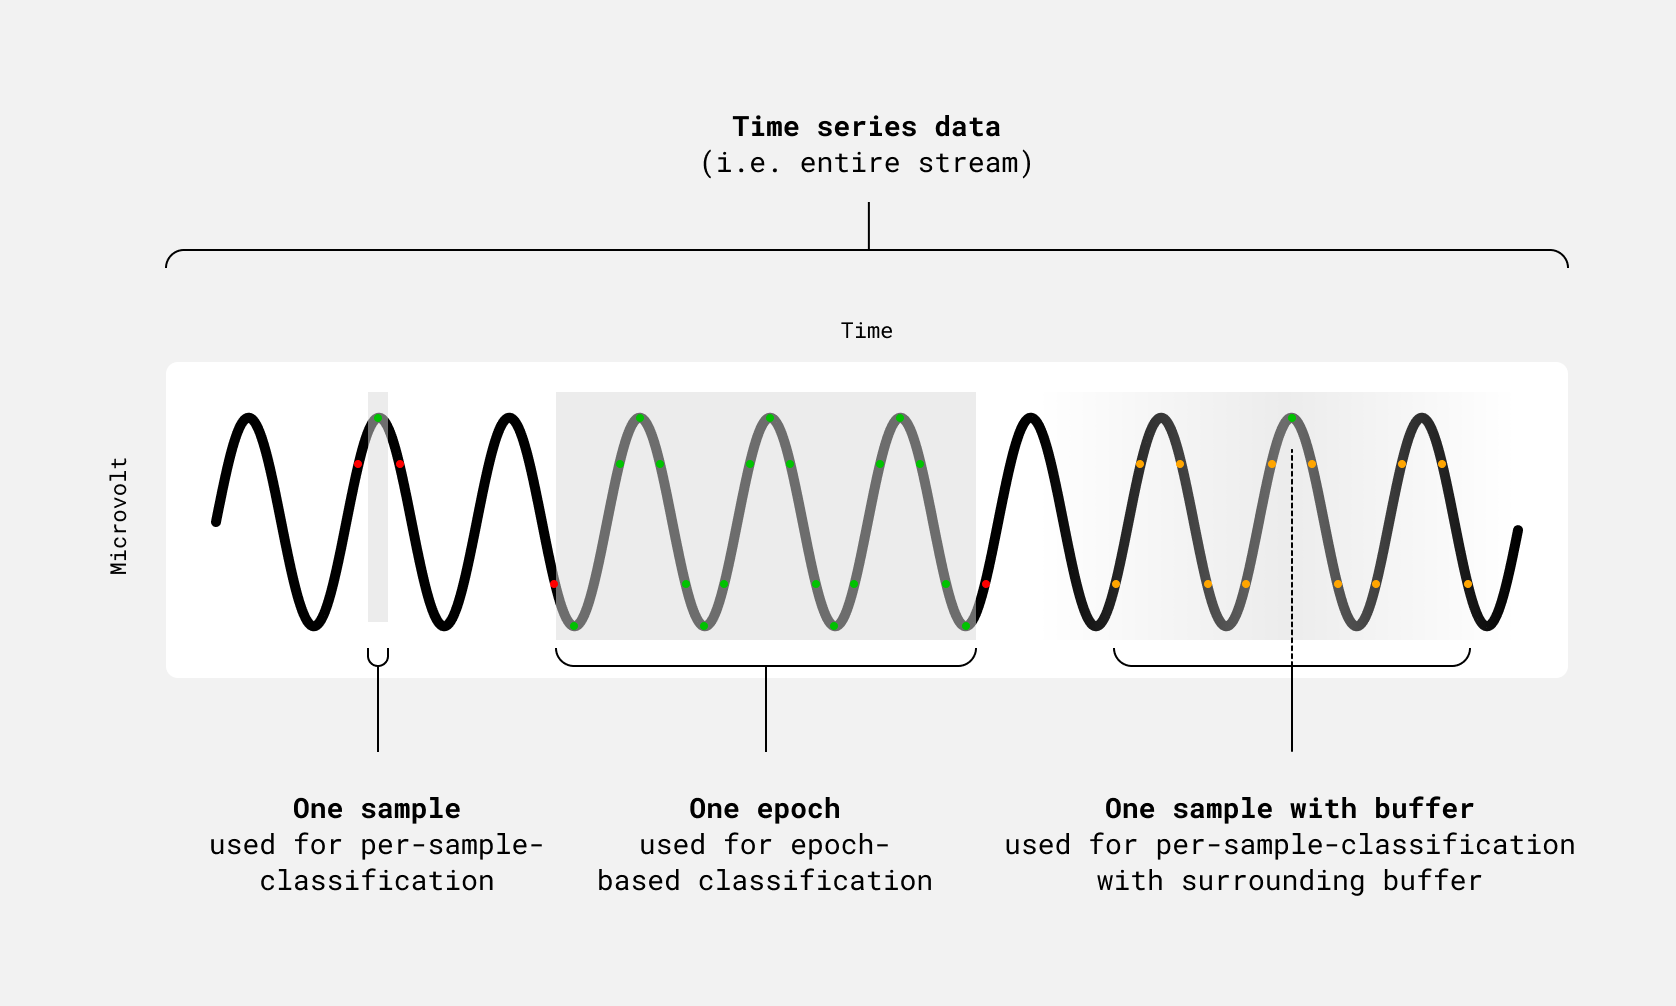
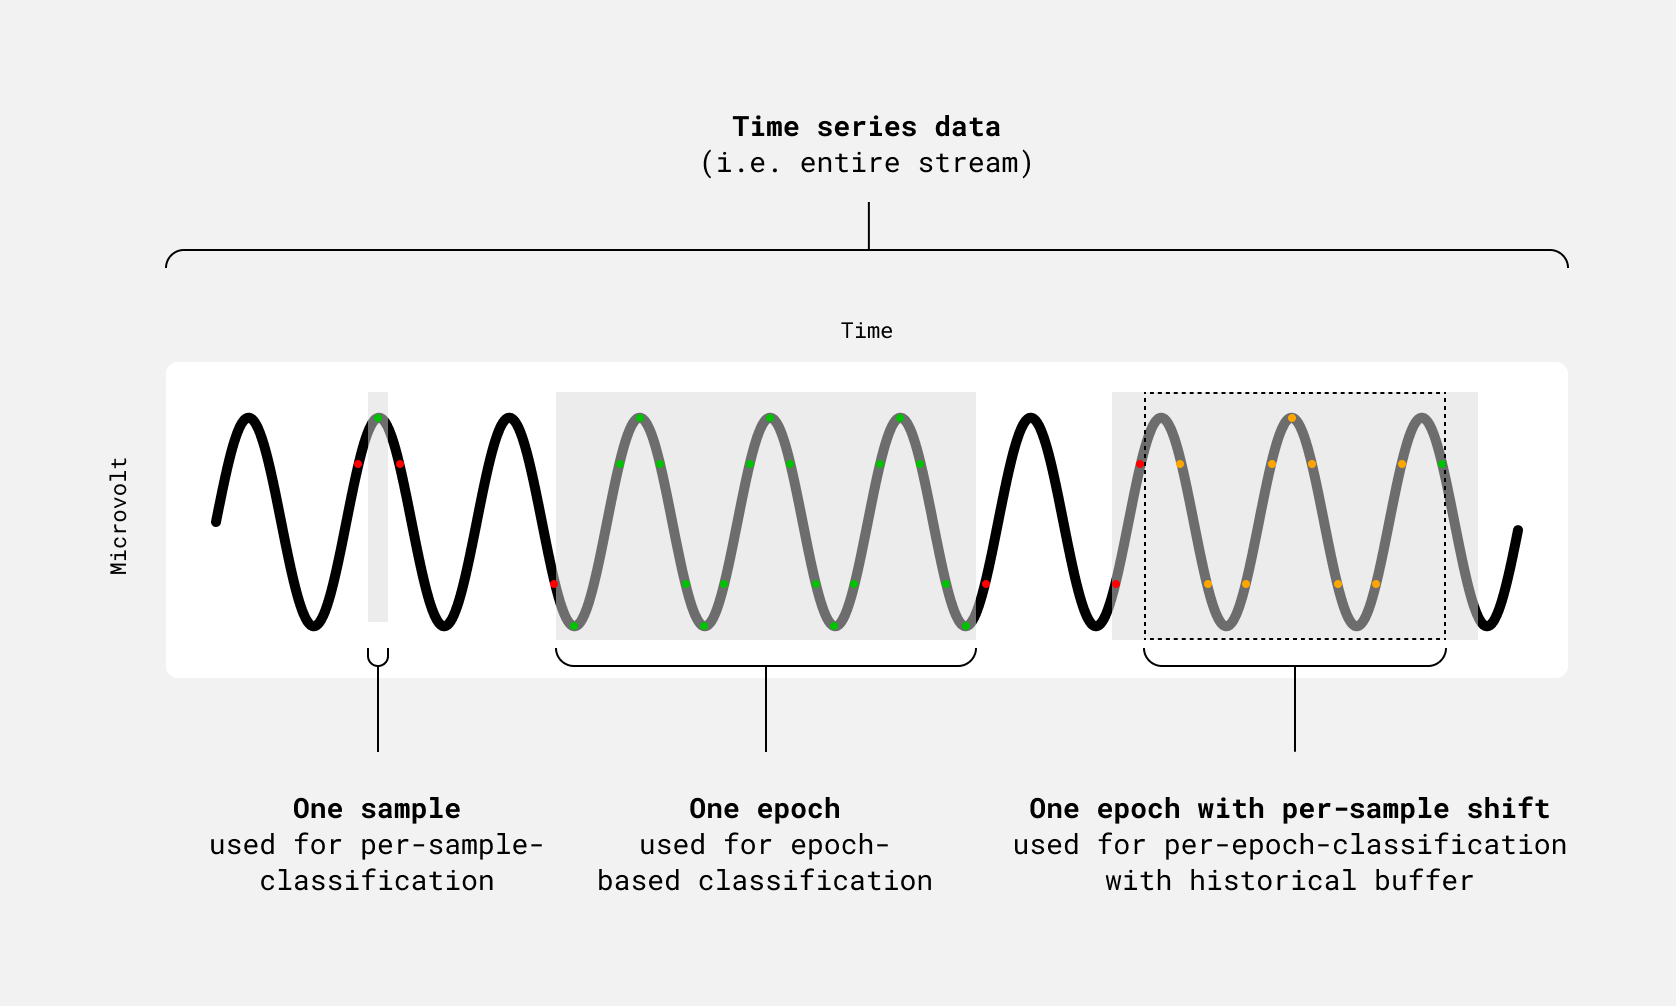
Add graph data base figure and adjust per-sample figure

diff --git a/thesis/src/Chapter5/chapter5.tex b/thesis/src/Chapter5/chapter5.tex
@@ -81,9 +81,16 @@ Aside from the stream-oriented, event-driven nature of a N/CI, the aspect of dat
 
 % TODO create data structure table
 
-In addition to storing the neural data in the given data structure, it is essential to note that other sensor data, such as inertial measurement unit (IMU) data, which is also collected by the IDUN hardware to track the subject's location, rotation, and movement, is also stored alongside and synchronised with the neural data. In addition to the two time-series-based data, EEG and IMU, IDUN collects meta-information such as classified versions of the data, such as eye movement data, which must also be synchronised with the raw data streams. The more classification and post-processing logic applied to raw neural data streams, the more metadata must be linked to the original files in a database, as figure 123 shows.
+In addition to storing the neural data in the given data structure, it is essential to note that other sensor data, such as inertial measurement unit (IMU) data, which is also collected by the IDUN hardware to track the subject's location, rotation, and movement, is also stored alongside and synchronised with the neural data. In addition to the two time-series-based data, EEG and IMU, IDUN collects meta-information such as classified versions of the data, such as eye movement data, which must also be synchronised with the raw data streams. The more classification and post-processing logic applied to raw neural data streams, the more metadata, and associations must be linked to the original file in a database, as \autoref{fig:graph-database} shows.
 
-% TODO create a figure with graph association
+\begin{figure}[!ht]
+  \centering
+  \includegraphics[width=\linewidth]{graph-database.png}
+  \caption{Example of the data model in form of a graph with the current setup and scope of IDUN's classifier and transformations.}
+  \label{fig:graph-database}
+\end{figure}
+
+\newpage
 
 A graph database is the most natural way to store this large number of relationships between various stored files (entities). Relationships are treated as first-class citizens in graph databases, and most of their value is derived from these relationships. In graph databases, nodes are used to store data entities, while edges are used to store relationships between entities \citep{amazon_web_services_inc_what_nodate}. Due to time limitations, the author did not implement a graph database but chose a relational database such as AWS Aurora since the current amount of data relationships is still manageable. To quickly swap the underlying database technology without rewriting a significant portion of the business logic, the author intends to use an object-relational mapping (ORM) tool such as Prisma to treat relational data models via a graph-like schema \citep{prisma_data_nodate}.
 
